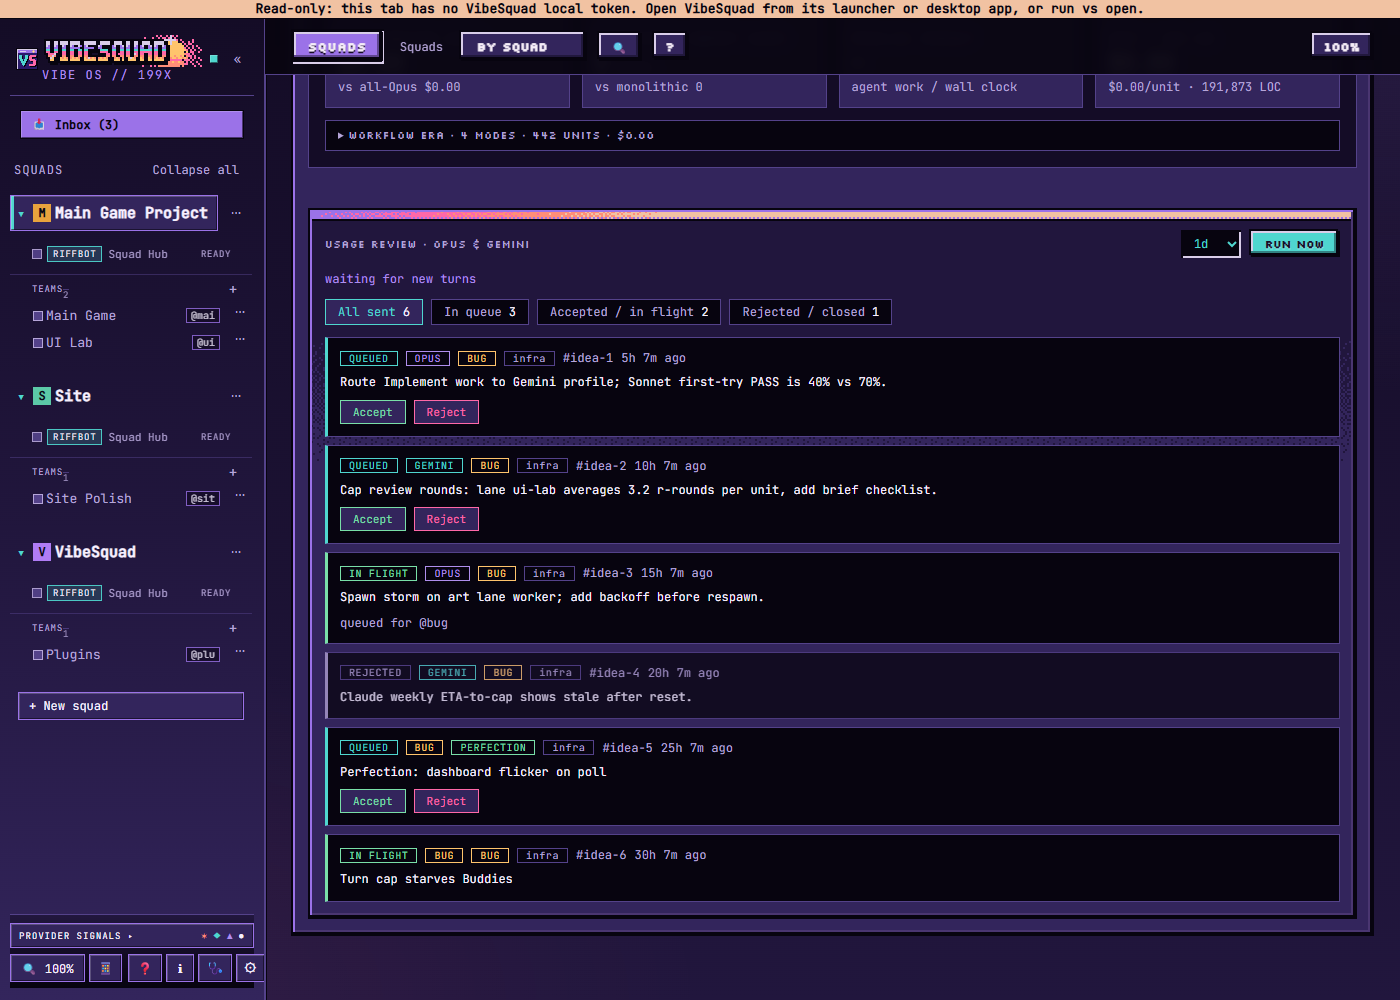
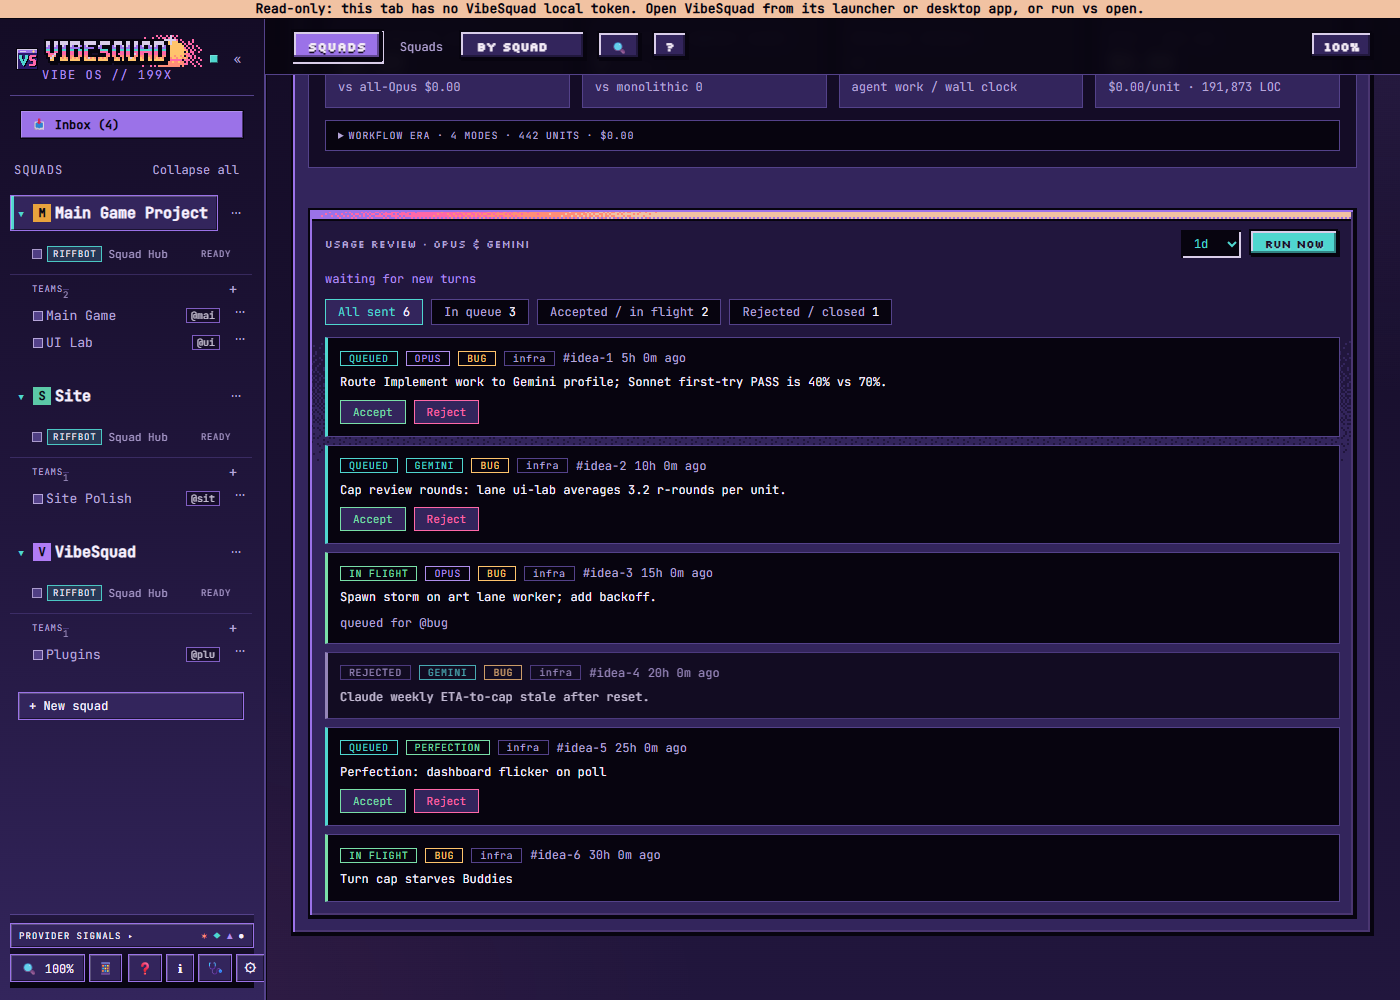
usa-16 fix1: IdeaInbox keeps accepted cards, vs inbox triage --accept/--reject/--set-status + status validation, source badge only for usage-review, workPct fold weighted by ms, CSS hygiene

diff --git a/src/usageHelpers.ts b/src/usageHelpers.ts
@@ -228,6 +228,7 @@ export function humanizeProfile(profile: string): string {
 
 export function buildProfiles(d: UsageData): ProfileView[] {
   const out = new Map<string, ProfileView>();
+  const msByKey = new Map<string, { work: number; idle: number }>();
   for (const p of d.byProfile ?? []) {
     const total = (p.workingMs ?? 0) + (p.idleMs ?? 0);
     const view: ProfileView = {
@@ -245,6 +246,10 @@ export function buildProfiles(d: UsageData): ProfileView[] {
       fixRate: p.fixAfterMergeRate ?? 0,
       workPct: total > 0 ? (p.workingMs ?? 0) / total : null,
     };
+    const ms = msByKey.get(view.key) ?? { work: 0, idle: 0 };
+    ms.work += p.workingMs ?? 0;
+    ms.idle += p.idleMs ?? 0;
+    msByKey.set(view.key, ms);
     const prev = out.get(view.key);
     if (!prev) {
       out.set(view.key, view);
@@ -256,7 +261,6 @@ export function buildProfiles(d: UsageData): ProfileView[] {
     const wRun = (a: number, b: number) => (runs > 0 ? (a * prev.runs + b * view.runs) / runs : 0);
     const wUnit = (a: number, b: number) => (units > 0 ? (a * prev.mergedUnits + b * view.mergedUnits) / units : 0);
     const cost = prev.costPerMergedUnit === null && view.costPerMergedUnit === null ? null : wUnit(prev.costPerMergedUnit ?? 0, view.costPerMergedUnit ?? 0);
-    const work = prev.workPct === null ? view.workPct : view.workPct === null ? prev.workPct : (prev.workPct + view.workPct) / 2;
     out.set(view.key, {
       ...prev,
       runs,
@@ -267,7 +271,7 @@ export function buildProfiles(d: UsageData): ProfileView[] {
       avgReviewRounds: wUnit(prev.avgReviewRounds, view.avgReviewRounds),
       costPerMergedUnit: cost,
       fixRate: wUnit(prev.fixRate, view.fixRate),
-      workPct: work,
+      workPct: ms.work + ms.idle > 0 ? ms.work / (ms.work + ms.idle) : null,
     });
   }
   return [...out.values()];
@@ -320,12 +324,13 @@ export function filterInbox(cards: InboxCard[], f: InboxFilter): InboxCard[] {
   return f === "all" ? cards : cards.filter((c) => inboxBucket(c) === f);
 }
 
-export type SourceBadge = { key: "opus" | "gemini" | "bug"; label: string };
-export function inboxSourceBadge(source: string | undefined): SourceBadge {
+export type SourceBadge = { key: "opus" | "gemini"; label: string };
+/** Only usage-review cards get a source badge; other origins are implied by the lane badge. */
+export function inboxSourceBadge(source: string | undefined): SourceBadge | null {
   const s = (source ?? "").toLowerCase();
   if (s === "usage-review:opus") return { key: "opus", label: "Opus" };
   if (s === "usage-review:gemini") return { key: "gemini", label: "Gemini" };
-  return { key: "bug", label: "Bug" };
+  return null;
 }
 
 export function inboxStatusLabel(c: Pick<InboxCard, "status" | "topicAgentId">): string {

diff --git a/src/IdeaInbox.tsx b/src/IdeaInbox.tsx
@@ -117,6 +117,9 @@ export function openAndScrollToInbox() {
   }
 }
 
+/** Open ideas: parked, or accepted from triage (still actionable). Rejected/archived/handed-off leave the list. */
+const isOpenIdea = (c: InboxCard) => c.status === "parked" || c.status === "accepted";
+
 export function useInboxCards(): InboxCard[] {
   return useSyncExternalStore(subscribeInbox, getInboxCardsSnapshot);
 }
@@ -415,7 +418,7 @@ export const TopicCapBanner = memo(function TopicCapBanner({ minCount = TOPIC_SO
 export const SidebarInboxBadge = memo(function SidebarInboxBadge({ onSelect }: { onSelect?: () => void }) {
   const cards = useInboxCards();
   const open = useInboxOpen();
-  const parkedCount = useMemo(() => cards.filter((c) => c.status === "parked").length, [cards]);
+  const parkedCount = useMemo(() => cards.filter(isOpenIdea).length, [cards]);
 
   useEffect(() => {
     void refreshInboxCards();
@@ -482,7 +485,7 @@ export const IdeaInbox = memo(function IdeaInbox({ team, view, onOpenLane }: { t
     };
   }, []);
 
-  const parkedCards = useMemo(() => cards.filter((c) => c.status === "parked"), [cards]);
+  const parkedCards = useMemo(() => cards.filter(isOpenIdea), [cards]);
   useTeams();
   const laneName = (id: string) => laneDisplayName(getTeams(), id);
   const teamLaneIds = useMemo(() => new Set((team.lanes ?? []).map((l) => l.id.toLowerCase())), [team]);
@@ -707,6 +710,7 @@ export const IdeaInbox = memo(function IdeaInbox({ team, view, onOpenLane }: { t
                         {card.scope}
                       </span>
                       <strong className="inbox-card-title">{card.title}</strong>
+                      {card.status === "accepted" && <span className="inbox-merged-badge">accepted</span>}
                       {card.mergedFromIds && card.mergedFromIds.length > 0 && (
                         <span className="inbox-merged-badge" title={`Merged from: ${card.mergedFromIds.join(", ")}`}>
                           merged ({card.mergedFromIds.map((id) => `#${id}`).join(", ")})

diff --git a/src/styles.css b/src/styles.css
@@ -4005,7 +4005,7 @@ html, body, #root { overflow-x: hidden; }
 }
 .usage-collapse { border: 1px solid var(--line); background: var(--well); padding: var(--sp-2, 8px) var(--sp-3, 12px); }
 .usage-collapse[open] { display: flex; flex-direction: column; gap: var(--sp-2, 8px); }
-.usage-collapse-head { cursor: pointer; font-family: var(--arcade); font-size: 10px; letter-spacing: 0.08em; text-transform: uppercase; color: var(--muted); }
+.usage-collapse-head { cursor: pointer; font-size: 10px; letter-spacing: 0.08em; text-transform: uppercase; color: var(--muted); }
 .usage-collapse-head:hover, .usage-collapse-head:focus-visible { color: var(--cyan-t); }
 .usage-bug-inbox { display: flex; flex-direction: column; gap: var(--sp-3, 12px); }
 .usage-inbox-tabs { display: flex; flex-wrap: wrap; gap: var(--sp-2, 8px); }
@@ -4024,7 +4024,6 @@ html, body, #root { overflow-x: hidden; }
 .usage-inbox-status-closed { color: var(--muted); }
 .usage-inbox-src-opus { color: var(--violet-t); border-color: var(--violet-t); }
 .usage-inbox-src-gemini { color: var(--cyan-t); border-color: var(--cyan-t); }
-.usage-inbox-src-bug { color: var(--amber-t); border-color: var(--amber-t); }
 .usage-inbox-scope { text-transform: none; }
 .usage-inbox-note { word-break: break-word; }
 .usage-inbox-lane-bug { color: var(--amber-t); border-color: var(--amber-t); }

diff --git a/src/UsageDashboard.tsx b/src/UsageDashboard.tsx
@@ -89,7 +89,7 @@ function BugInbox({ now }: { now: number }) {
               <li key={c.id} className="usage-inbox-row" data-testid="usage-bug-inbox-row" data-status={bucket}>
                 <div className="usage-inbox-meta small">
                   <span className={`usage-inbox-badge usage-inbox-status-${bucket}`}>{inboxStatusLabel(c)}</span>
-                  <span className={`usage-inbox-badge usage-inbox-src-${src.key}`}>{src.label}</span>
+                  {src && <span className={`usage-inbox-badge usage-inbox-src-${src.key}`}>{src.label}</span>}
                   <span className={`usage-inbox-badge usage-inbox-lane-${lane.key}`}>{lane.label}</span>
                   <span className="usage-inbox-badge usage-inbox-scope">{c.scope}</span>
                   <span className="muted">{inboxIdLabel(c.id)}</span>
